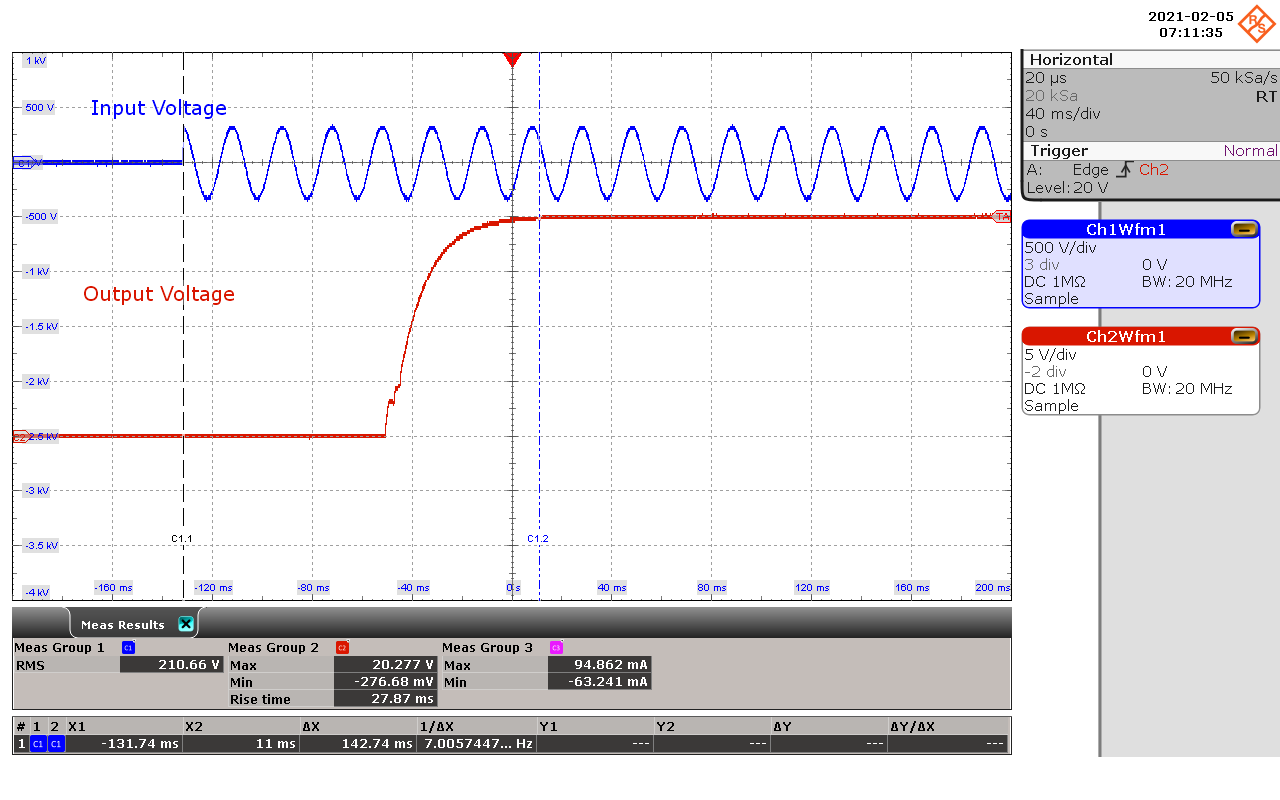
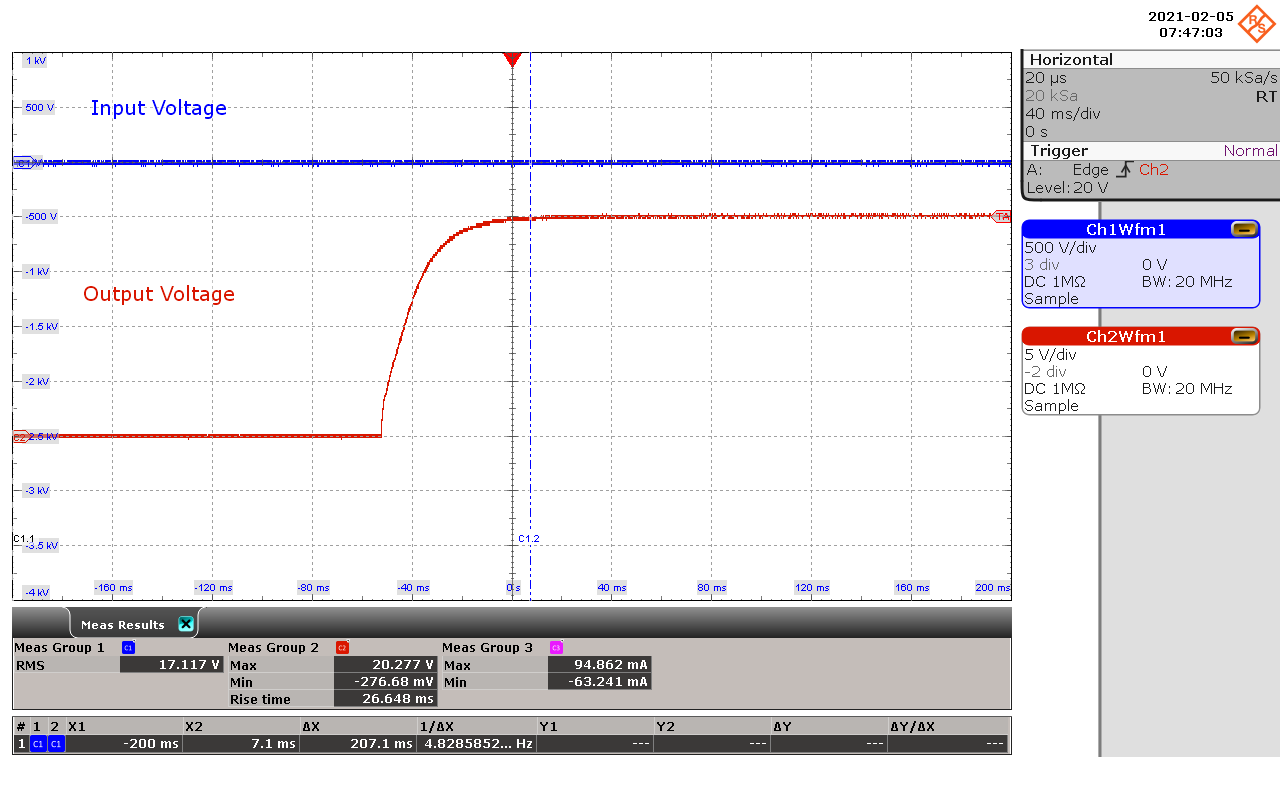
output startup

diff --git a/codes/startup_output.py b/codes/startup_output.py
@@ -5,8 +5,9 @@
 trigger_level = 20   # [V] set to the output voltage
 trigger_source = 2   # CH2 = Output Voltage
 ## INPUT
-vin = [90,115,230,265]
-freq = [60,60,50,50]
+vin = [265,230,115]
+freq = [50,50,60]
+
 ## OUTPUT
 Iout_max = 2 # A
 Iout = [Iout_max, 0.50*Iout_max]
@@ -84,12 +85,12 @@ def init_trigger():
 
 def reset():
   # print("resetting...")
-  ac.turn_off()
+  # ac.turn_off()
   eload.channel[1].cc = 1
   eload.channel[1].turn_on()
   eload.channel[2].cc = 1
   eload.channel[2].turn_on()
-  sleep(2)
+  sleep(1)
   print()
 
 def soak(soak_time):
@@ -163,21 +164,22 @@ def startup_cc():
     
     ac.voltage = voltage
     ac.frequency = frequency
-    sleep(1)
+
+    # sleep(1)
     
     for x in Iout:
       eload.channel[1].cc = x
       eload.channel[1].turn_on()
 
       scope.run_single()
-      sleep(1)
-      startup_90degPhase(voltage, frequency)
       sleep(2)
+      startup_90degPhase(voltage, frequency)
+      sleep(5)
       scope.stop()
 
-      cursor1 = 0
-      cursor2 = 0
-      scope.cursor(channel=1, cursor_set=1, X1=cursor1, X2=cursor2)
+      # cursor1 = 0
+      # cursor2 = 0
+      # scope.cursor(channel=1, cursor_set=1, X1=cursor1, X2=cursor2)
       ####################################################
 
       data = scope.get_chan_data(1) # get input voltage waveform data points
@@ -226,6 +228,7 @@ def startup_cc():
 
       ####################################################
 
+      sleep(1)
       filename = f'{IC} {voltage}Vac {Iout_name[Iout_index]}LoadCC.png'
       scope.get_screenshot(filename, waveforms_folder)
       print(f'{IC} {voltage}Vac {Iout_name[Iout_index]}LoadCC.png')
